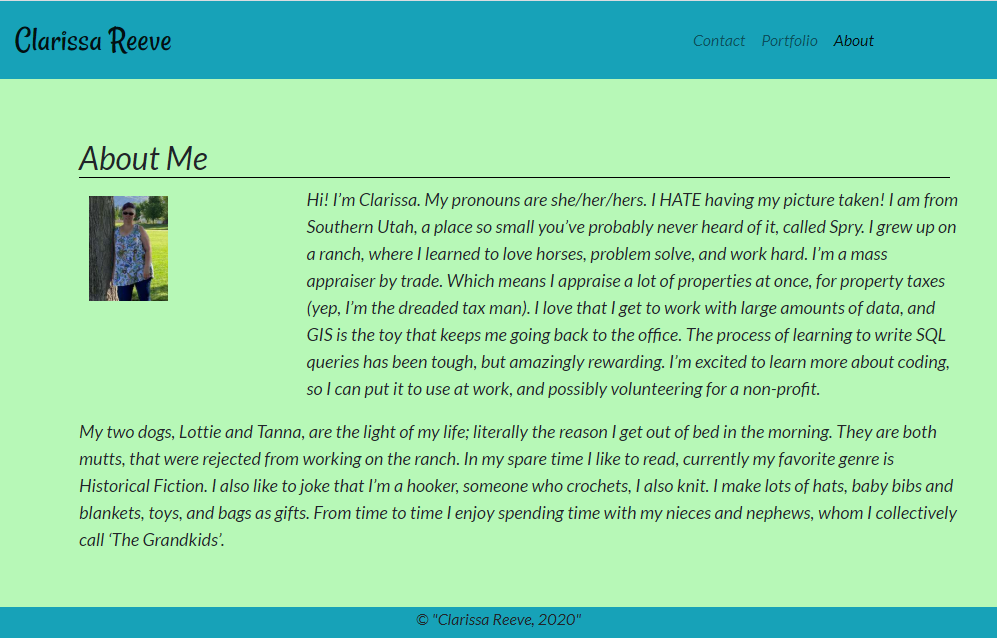
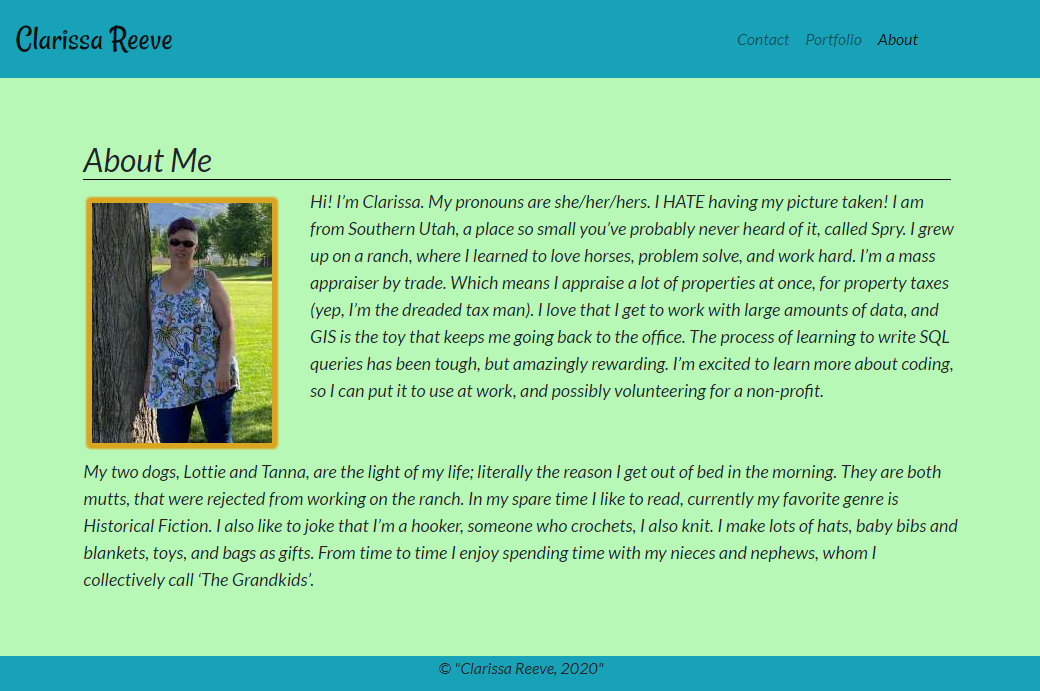
fixing readme, modifying layouts

Changed region(s): [[0.0622, 0.2085, 0.9639, 0.8636], [0.0, 0.0298, 1.0, 0.1489], [0.0, 0.9232, 1.0, 0.9828]]

diff --git a/index.html b/index.html
@@ -48,7 +48,7 @@
         <img src="./assets/me_200713_01.jpg" alt="Clarissa Image" class= "rounded mx-auto d-block">
       </div>
       <div class="col-md-9">
-        <p class="text-wrap">Hi! I’m Clarissa. My pronouns are she/her/hers. I HATE having my picture taken! I am from
+        <p class="text-wrap text-justify">Hi! I’m Clarissa. My pronouns are she/her/hers. I HATE having my picture taken! I am from
           Southern Utah, a place so small you’ve probably never heard of it, called Spry. I grew up on a ranch, where I
           learned to love horses, problem solve, and work hard. I’m a mass appraiser by trade. Which means I appraise a
           lot of properties at once, for property taxes (yep, I’m the dreaded tax man). I love that I get to work with
@@ -58,7 +58,7 @@
       </div>
     </div>
     <div class="row">
-      <div class="col-md-12">
+      <div class="col-md-12 text-justify">
         <p class="text-wrap">My two dogs, Lottie and Tanna, are the light of my life; literally the reason I get out of
           bed in the morning. They are both mutts, that were rejected from working on the ranch. In my spare time I like
           to read, currently my favorite genre is Historical Fiction. I also like to joke that I’m a hooker, someone who

diff --git a/portfolio.html b/portfolio.html
@@ -46,7 +46,7 @@
     <!-- Row 1 Photos -->
     <div class="row">
       <div class="col-md-6">
-        <img src="./assets/Truck.jpg" alt="New Oragne Ranger" class="img-fluid rounded ">
+        <img src="./assets/Truck.jpg" alt="New Oragne Ranger" class="img-fluid rounded">
       </div>
       <div class="col-md-6">
         <img src="./assets/LottieNewToy.jpg" alt="Old Red Ranger with Lottie" class="img-fluid rounded ">

diff --git a/README.md b/README.md
@@ -1,8 +1,8 @@
 # responisive_portfolio
 
-![top_language](https://img.shields.io/github/languages/top/clarissareeve/responisive_portfolio) ![languages](https://img.shields.io/github/languages/count/clarissareeve/responisive_portfolio)
+![top_language](https://img.shields.io/github/languages/top/clarissareeve/responisive_portfolio) ![languages](https://img.shields.io/github/languages/count/clarissareeve/responisive_portfolio) ![W3C Validation](https://img.shields.io/w3c-validation/html?targetUrl=https%3A%2F%2Fclarissareeve.github.io%2Fresponisive_portfolio%2F)
 
-Link to live site: [Responsive Portfolio](https://clarissareeve.github.io/responisive_portfolio/)
+Link to live site: [Responsive Portfolio]("https://clarissareeve.github.io/responisive_portfolio/")
 
 ![Landing Page](assets/LandingPage.png)
 
